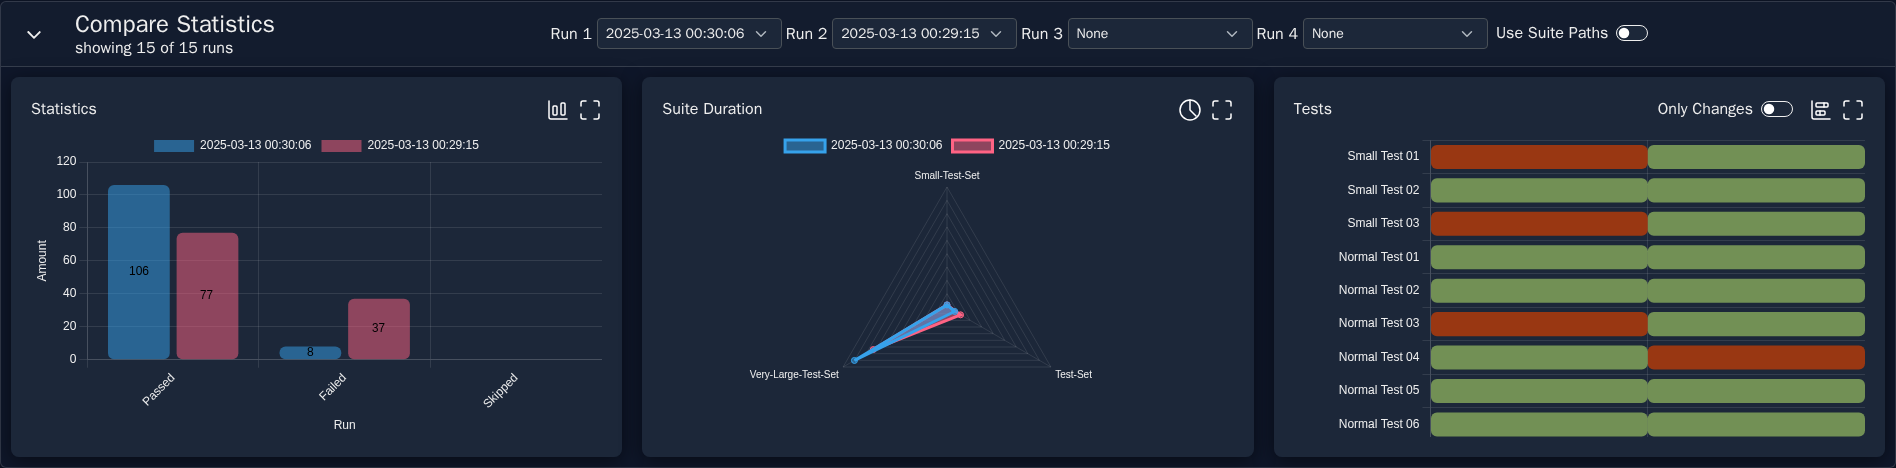
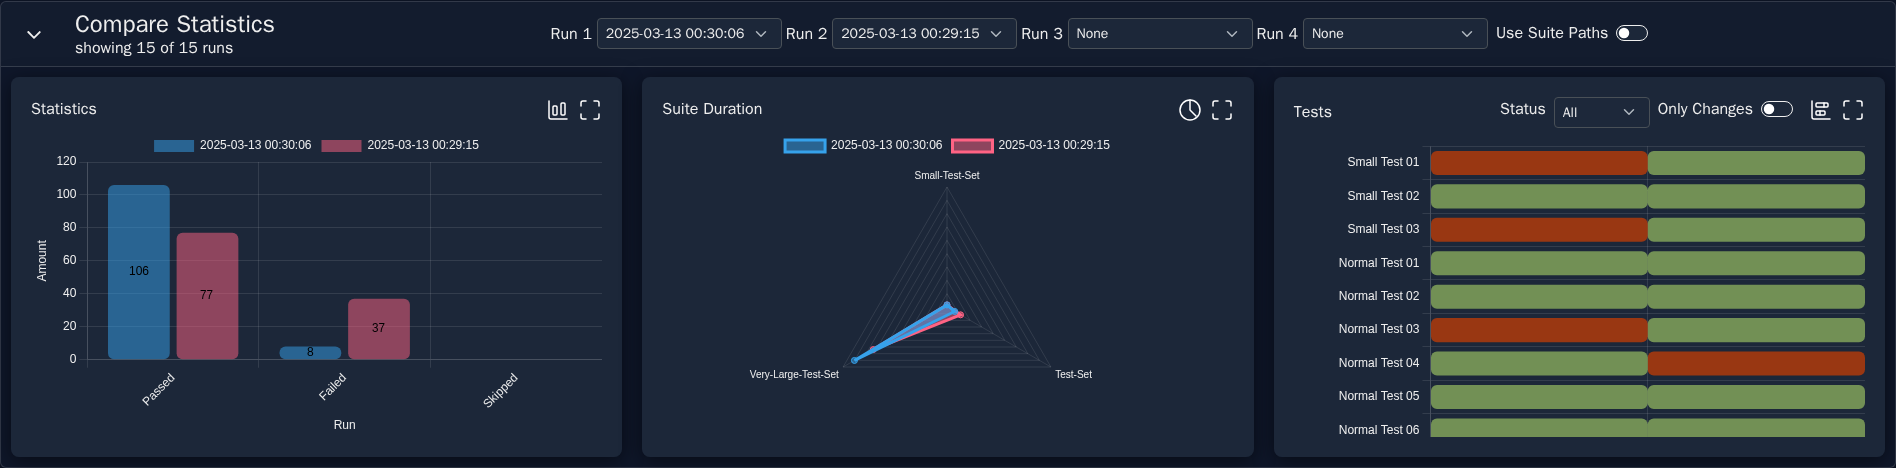
Same test status filter (#152)
* Removed robotdashboard from test requirements as its installed from repo

* Added status filter in test statistics and compare graphs

* Added documentation for status filter in test timeline graphs

* Test fixes

diff --git a/robotframework_dashboard/js/graph_data/statistics.js b/robotframework_dashboard/js/graph_data/statistics.js
@@ -113,7 +113,9 @@ function get_test_statistics_data(filteredTests) {
     const testSelect = document.getElementById("testSelect").value;
     const testTagsSelect = document.getElementById("testTagsSelect").value;
     const testOnlyChanges = document.getElementById("testOnlyChanges").checked;
+    const testNoChanges = document.getElementById("testNoChanges").value;
     const compareOnlyChanges = document.getElementById("compareOnlyChanges").checked;
+    const compareNoChanges = document.getElementById("compareNoChanges").value;
     const selectedRuns = [...new Set(
         compareRunIds
             .map(id => document.getElementById(id).value)
@@ -131,7 +133,6 @@ function get_test_statistics_data(filteredTests) {
     }
     for (const test of filteredTests) {
         if (settings.menu.dashboard) {
-            const testLabel = getTestLabel(test);
             const testBaseName = test.name;
             if (suiteSelectTests !== "All") {
                 const expectedFull = `${suiteSelectTests}.${testBaseName}`;
@@ -172,13 +173,45 @@ function get_test_statistics_data(filteredTests) {
         }
     }
     let finalDatasets = convert_timeline_data(datasets);
-    if (testOnlyChanges || compareOnlyChanges) {
+    if ((testOnlyChanges && testNoChanges !== "All") || (compareOnlyChanges && compareNoChanges !== "All")) {
+        // If both filters are set, return empty data, as nothing can match this
+        return [{ labels: [], datasets: [] }, []];
+    }
+    if (testOnlyChanges || compareOnlyChanges || testNoChanges !== "All" || compareNoChanges !== "All") {
         const countMap = {};
         for (const ds of finalDatasets) {
             countMap[ds.label] = (countMap[ds.label] || 0) + 1;
         }
-        const labelsToKeep = new Set(Object.keys(countMap).filter(label => countMap[label] > 1));
-
+        let labelsToKeep = new Set();
+        if (testOnlyChanges || compareOnlyChanges) {
+            // Only keep the tests that have more than 1 status change
+            labelsToKeep = new Set(Object.keys(countMap).filter(label => countMap[label] > 1));
+        } else if (testNoChanges !== "All" || compareNoChanges !== "All") {
+            const countMap = {};
+            for (const ds of finalDatasets) {
+                countMap[ds.label] = (countMap[ds.label] || 0) + 1;
+            }
+            labelsToKeep = new Set(Object.keys(countMap).filter(label => {
+                // Only keep tests that appear once (no status changes)
+                if (countMap[label] !== 1) return false;
+                // Find the dataset for this label to check its status
+                const dataset = finalDatasets.find(ds => ds.label === label);
+                if (!dataset) return false;
+                // Check if the dataset's status matches testNoChanges
+                // Assuming the dataset has a property or can be determined from config
+                const isPassedTest = dataset.backgroundColor === passedBackgroundColor;
+                const isFailedTest = dataset.backgroundColor === failedBackgroundColor;
+                const isSkippedTest = dataset.backgroundColor === skippedBackgroundColor;
+                return (
+                    (testNoChanges === "Passed" && isPassedTest) ||
+                    (testNoChanges === "Failed" && isFailedTest) ||
+                    (testNoChanges === "Skipped" && isSkippedTest) ||
+                    (compareNoChanges === "Passed" && isPassedTest) ||
+                    (compareNoChanges === "Failed" && isFailedTest) ||
+                    (compareNoChanges === "Skipped" && isSkippedTest)
+                );
+            }));
+        }
         finalDatasets = finalDatasets.filter(ds => labelsToKeep.has(ds.label));
         labels = labels.filter(label => labelsToKeep.has(label));
     }

diff --git a/robotframework_dashboard/js/variables/graphmetadata.js b/robotframework_dashboard/js/variables/graphmetadata.js
@@ -364,6 +364,17 @@ const graphMetadata = [
                     <h6>Statistics</h6>
                     <div class="graph-controls">
                         <div class="btn-group">
+                            <label class="form-check-label" for="testNoChanges">Status</label>
+                        </div>
+                        <div class="btn-group">
+                            <select class="form-select form-select-sm" id="testNoChanges">
+                                <option value="All">All</option>
+                                <option value="Passed">Passed</option>
+                                <option value="Failed">Failed</option>
+                                <option value="Skipped">Skipped</option>
+                            </select>
+                        </div>
+                        <div class="btn-group">
                             <label class="form-check-label" for="testOnlyChanges">Only Changes</label>
                         </div>
                         <div class="btn-group form-switch">
@@ -836,6 +847,17 @@ const graphMetadata = [
         html: `<div class="graph-header">
                     <h6>Tests</h6>
                     <div class="graph-controls">
+                        <div class="btn-group">
+                            <label class="form-check-label" for="compareNoChanges">Status</label>
+                        </div>
+                        <div class="btn-group">
+                            <select class="form-select form-select-sm" id="compareNoChanges">
+                                <option value="All">All</option>
+                                <option value="Passed">Passed</option>
+                                <option value="Failed">Failed</option>
+                                <option value="Skipped">Skipped</option>
+                            </select>
+                        </div>
                         <div class="btn-group">
                             <label class="form-check-label" for="compareOnlyChanges">Only Changes</label>
                         </div>

diff --git a/robotframework_dashboard/js/variables/information.js b/robotframework_dashboard/js/variables/information.js
@@ -98,7 +98,9 @@ const informationMap = {
     "suiteMostTimeConsumingShown": "Hide Graph",
     "suiteMostTimeConsumingHidden": "Show Graph",
     "testStatisticsGraphTimeline": `This graph displays the statistics of the tests in a timeline format
-Only Changes: Displays only tests that have changed statuses at some point in time`,
+Status: Displays only tests don't have any status changes and have the selected status
+Only Changes: Displays only tests that have changed statuses at some point in time
+Tip: Don't use Status and Only Changes at the same time as it will result in an empty graph`,
     "testStatisticsFullscreen": "Fullscreen",
     "testStatisticsClose": "Close",
     "testStatisticsShown": "Hide Graph",
@@ -229,7 +231,9 @@ It helps identify tests with inconsistent execution times, which might be flaky 
     "compareSuiteDurationShown": "Hide Graph",
     "compareSuiteDurationHidden": "Show Graph",
     "compareTestsGraphTimeline": `This graph displays the statistics of the tests in a timeline format
-Only Changes: Displays only tests that have changed statuses at some point in time`,
+Status: Displays only tests don't have any status changes and have the selected status
+Only Changes: Displays only tests that have changed statuses at some point in time
+Tip: Don't use Status and Only Changes at the same time as it will result in an empty graph`,
     "compareTestsFullscreen": "Fullscreen",
     "compareTestsClose": "Close",
     "compareTestsShown": "Hide Graph",

diff --git a/robotframework_dashboard/js/eventlisteners.js b/robotframework_dashboard/js/eventlisteners.js
@@ -566,7 +566,13 @@ function setup_graph_view_buttons() {
     document.getElementById("testOnlyChanges").addEventListener("change", () => {
         create_test_statistics_graph();
     });
+    document.getElementById("testNoChanges").addEventListener("change", () => {
+        create_test_statistics_graph();
+    });
     document.getElementById("compareOnlyChanges").addEventListener("change", () => {
+        create_compare_tests_graph();
+    });
+    document.getElementById("compareNoChanges").addEventListener("change", () => {
         create_compare_tests_graph();
     });
     // most time consuming only latest run switch event listeners

diff --git a/docs/graphs-tables.md b/docs/graphs-tables.md
@@ -38,7 +38,7 @@ Discover the graphs and tables included in the Dashboard. This page explains how
 
 | Graph Name               | Views                    | Views Description                                                                                                                  | Notes                                                                         |
 | ------------------------ | ------------------------ | ---------------------------------------------------------------------------------------------------------------------------------- | ----------------------------------------------------------------------------- |
-| Test Statistics          | Timeline | Timeline: Displays statistics of tests in timeline format.<br>Only Changes: Displays only tests that changed status at some point.                 | Only Display Tests With Status Changes                                        |
+| Test Statistics          | Timeline | Timeline: Displays statistics of tests in timeline format.  | Status: Displays only tests don't have any status changes and have the selected status<br>Only Changes: Displays only tests that changed status at some point.<br>Tip: Don't use Status and Only Changes at the same time as it will result in an empty graph                                        |
 | Test Duration            | Bar<br>Line              | Bar: Displays test durations represented as vertical bars.<br>Line: Displays test durations over a time axis.                      | -                                                                             |
 | Test Duration Deviation  | Boxplot                  | Shows deviations of test durations from average, highlighting flaky tests.                                                         | -                                                                             |
 | Test Messages            | Bar<br>Timeline          | Bar: Displays messages ranked by frequency.<br>Timeline: Displays when messages occurred to reveal spikes.                         | Top 10 default, Top 50 fullscreen                                             |
@@ -68,7 +68,7 @@ Discover the graphs and tables included in the Dashboard. This page explains how
 | ---------------------- | ------------------------ | ----------------------------------------------------------------------| -------------------------------------- |
 | Compare Statistics     | Bar                      | Displays overall statistics of the selected runs.                     | -                                      |
 | Compare Suite Duration | Radar                    | Shows suite durations in radar format for multiple runs.              | -                                      |
-| Compare Tests          | Timeline                 | Timeline: Displays test statistics over time.                         | Only Display Tests With Status Changes |
+| Compare Tests          | Timeline                 | Timeline: Displays test statistics over time.                         | Status: Displays only tests don't have any status changes and have the selected status<br>Only Changes: Displays only tests that changed status at some point.<br>Tip: Don't use Status and Only Changes at the same time as it will result in an empty graph |
 
 
 ## Tables Tab
